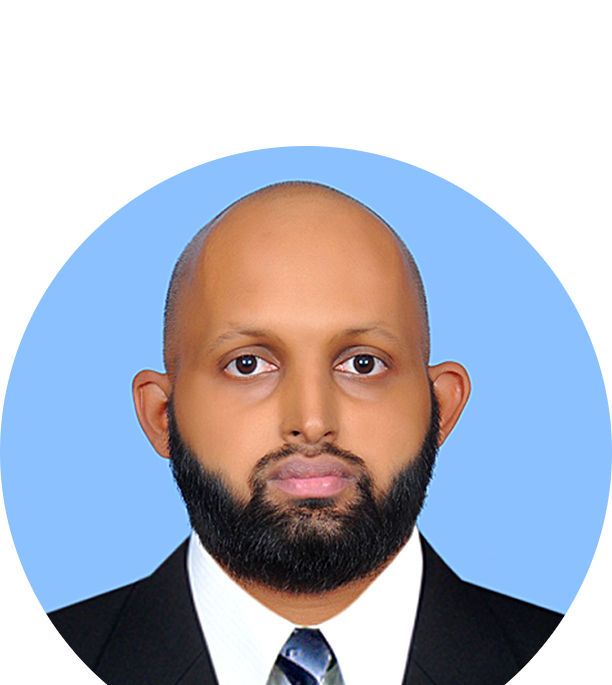
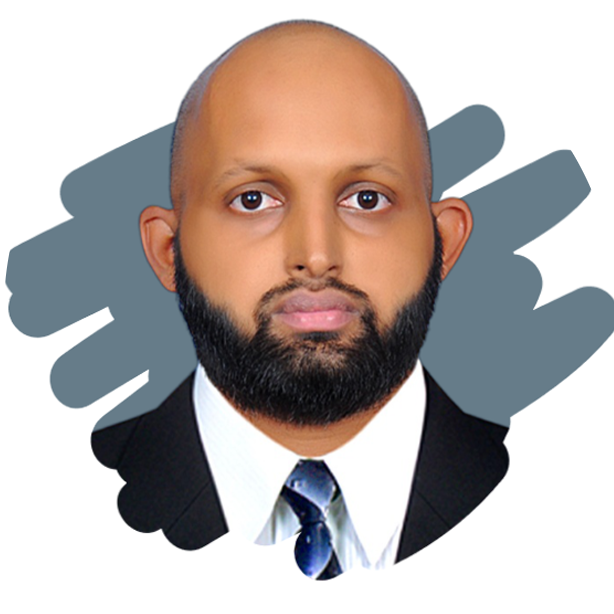
Hero Section Completed

diff --git a/app.py b/app.py
@@ -20,8 +20,8 @@ current_dir = Path(__file__).parent if "__file__" in locals() else Path.cwd()
 
 
 css_file = current_dir/"styles"/"main.css"
-resume_file = current_dir/"assests"/"CV.pdf"
-profile_pic = current_dir/"assests"/"profile-pic.png"
+resume_file = current_dir/"assets"/"CV.pdf"
+profile_pic = current_dir/"assets"/"profile-pic.png"
 
 
 # --- General Settings - Part 2 ---
@@ -45,4 +45,26 @@ PROJECTS = {
 }
 
 
-st.title("Hello there")
+# --- LOAD CSS, PDF & PROFILE PICTURE ---
+with open(css_file) as f:
+    st.markdown("<style>{}<style>".format(f.read()), unsafe_allow_html=True)
+with open(resume_file, "rb") as pdf_file:
+    PDFbyte = pdf_file.read()
+profile_pic = Image.open(profile_pic)
+
+
+# --- Hero Section ---
+col1, col2 = st.columns(2, gap="small")
+with col1:
+    st.image(profile_pic, width=230)
+
+with col2:
+    st.title(NAME)
+    st.write(DESCRIPTION)
+    st.download_button(
+        label=" 📄 Download Resume",
+        data=PDFbyte,
+        file_name = resume_file.name,
+        mime="application/octet-stream",
+    )
+    st.write(":mailbox:", EMAIL)
